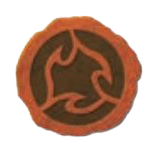
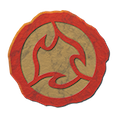
* Moved ImageCache off of SharedCtx onto ImageSpec global. * All images are now cached for 1 paint, then cleared IF memory usage is too high.

diff --git a/SpiritIsland.Utilities/Style/ImageSpec.cs b/SpiritIsland.Utilities/Style/ImageSpec.cs
@@ -1,28 +1,141 @@
 namespace SpiritIsland;
 
-public abstract class ImageSpec {
-	static public implicit operator ImageSpec(Img img) => new ImgImage(img);
-	static public implicit operator ImageSpec(IconDescriptor icon) => new IconImage(icon);
-	static public implicit operator ImageSpec(Bitmap bitmap) => new BitmapImage(bitmap);
-	static public implicit operator ImageSpec(Func<ResourceMgr<Bitmap>> func) => new ResourceMgrImage(func);
-	static public implicit operator ImageSpec(Func<Bitmap> img) => new FuncImage(img); // !!! this seems dangerous since we don't know disposal histroy
+public abstract class ImageSpec( bool shouldDispose ) {
 
-	public abstract ResourceMgr<Bitmap> GetResourceMgr();
+	#region static Implicit converters
 
-	class ImgImage(Img img) : ImageSpec{
-		public override ResourceMgr<Bitmap> GetResourceMgr() => new ResourceMgr<Bitmap>( ResourceImages.Singleton.GetImg(img), true );
-	}
-	class FuncImage(Func<Bitmap> generator) : ImageSpec{
-		public override ResourceMgr<Bitmap> GetResourceMgr() => new ResourceMgr<Bitmap>( generator(), true );
-	}
-	class IconImage(IconDescriptor icon) : ImageSpec {
-		public override ResourceMgr<Bitmap> GetResourceMgr() => new ResourceMgr<Bitmap>( ResourceImages.Singleton.GetTrackSlot( icon ), true);
-	}
-	class BitmapImage(Bitmap bitmap) : ImageSpec {
-		public override ResourceMgr<Bitmap> GetResourceMgr() => new ResourceMgr<Bitmap>( bitmap, false);
-	}
-	class ResourceMgrImage( Func<ResourceMgr<Bitmap>> func ) : ImageSpec {
+	// borrowd
+	static public implicit operator ImageSpec( Bitmap bitmap ) => new BitmapImage( bitmap );
+	// owned
+	static public implicit operator ImageSpec( Img img ) => new ImgImage( ImageCache, img );
+	static public implicit operator ImageSpec(IconDescriptor icon) => new IconImage( ImageCache, icon );
+	static public implicit operator ImageSpec(PowerCard card) => new PowerCardImage( ImageCache, card );
+	static public ImageSpec From( IToken token ) => new TokenImgSource( ImageCache, token );
+	static public implicit operator ImageSpec( Func<Bitmap> img ) => new FuncImage( img ); // !!! this seems dangerous since we don't know disposal histroy
+	// mystery
+	// static public implicit operator ImageSpec(Func<ResourceMgr<Bitmap>> func) => new ResourceMgrImage(func);
+
+	#endregion static Implicit converters
+
+	public virtual ResourceMgr<Bitmap> GetResourceMgr() => new ResourceMgr<Bitmap>( GetBitmap(), _owned );
+	public abstract Bitmap GetBitmap();
+
+	protected bool _owned = shouldDispose;
+
+	// Borrowed - don't dispose, don't cache
+	class BitmapImage( Bitmap bitmap ) : ImageSpec( false ) { public override Bitmap GetBitmap() => bitmap; }
+	// Borrowed - (Cached from ResouceImages) - Dispose, may cache
+	class ImgImage( ResourceImageSource resImages, Img img ) : ImageSpec(resImages.CalleeShouldDisposeOfResource){ public override Bitmap GetBitmap() => resImages.GetImg(img ); }
+	class IconImage( ResourceImageSource resImages, IconDescriptor icon) : ImageSpec( resImages.CalleeShouldDisposeOfResource ) { public override Bitmap GetBitmap() => resImages.GetTrackSlot( icon ); }
+	class TokenImgSource( ResourceImageSource resImages, IToken token ) : ImageSpec( resImages.CalleeShouldDisposeOfResource ) { public override Bitmap GetBitmap() => resImages.GetTokenImage( token ); }
+	class PowerCardImage( ResourceImageSource resImages, PowerCard card ) : ImageSpec( resImages.CalleeShouldDisposeOfResource ) { public override Bitmap GetBitmap() => resImages.GetPowerCard( card ); }
+
+	// Ownded (generic) - Dispose, may cache
+	class FuncImage( Func<Bitmap> generator ) : ImageSpec( true ) { public override Bitmap GetBitmap() => generator(); }
+
+	//  Owned - What the heck is this?
+	class ResourceMgrImage( Func<ResourceMgr<Bitmap>> func ) : ImageSpec( true ) {
 		public override ResourceMgr<Bitmap> GetResourceMgr() => func();
+		public override Bitmap GetBitmap() => _dummy; static Bitmap _dummy = new Bitmap(1,1);
 	}
 
+	#region static Cache
+
+	static public readonly CachedImageSource ImageCache = new CachedImageSource( ResourceImages.Singleton );
+
+	#endregion static Cache
+
+}
+
+public class CachedImageSource( ResourceImageSource _nonCached ) : ResourceImageSource {
+	bool ResourceImageSource.CalleeShouldDisposeOfResource => false;
+
+	#region public GetImg versions
+
+	public Bitmap GetImg( Img img ) {
+		if(GetSaved( img, out Bitmap? bitmap )) return bitmap!;
+		DateTime start = DateTime.Now;
+		bitmap = _nonCached.GetImg( img );
+		TimeSpan loadTime = DateTime.Now - start;
+		Save( img, bitmap, loadTime );
+		return bitmap;
+	}
+
+	public Bitmap GetTokenImage( IToken token ) {
+		if(GetSaved( token, out Bitmap? bitmap )) return bitmap!;
+		DateTime start = DateTime.Now;
+		bitmap = _nonCached.GetTokenImage( token );
+		TimeSpan loadTime = DateTime.Now - start;
+		Save( token, bitmap, loadTime );
+		return bitmap;
+	}
+	public Bitmap GetTrackSlot( IconDescriptor icon ) {
+		if(GetSaved( icon, out Bitmap? bitmap )) return bitmap!;
+		DateTime start = DateTime.Now;
+		bitmap = _nonCached.GetTrackSlot( icon );
+		TimeSpan loadTime = DateTime.Now - start;
+		Save( icon, bitmap, loadTime );
+		return bitmap;
+	}
+
+	public Bitmap GetPowerCard( PowerCard card ) {
+		if(GetSaved( card, out Bitmap? bitmap )) return bitmap!;
+		DateTime start = DateTime.Now;
+		bitmap = _nonCached.GetPowerCard( card );
+		TimeSpan loadTime = DateTime.Now - start;
+		Save( card, bitmap, loadTime );
+		return bitmap;
+	}
+
+	#endregion public GetImg versions
+
+	#region private Save/Load
+
+	bool GetSaved( object key, out Bitmap? bitmap ) {
+		if(_cache.TryGetValue( key, out CacheInfo? info )) {
+			info.RequestCount++;
+			bitmap = info.Bitmap;
+			return true;
+		}
+		bitmap = null;
+		return false;
+	}
+
+	void Save( object key, Bitmap bitmap, TimeSpan loadTime ) {
+		var info = new CacheInfo( bitmap, loadTime );
+		_cache.Add( key, info );
+		TotalLoadTime += loadTime;
+		MemoryUsage += info.MemoryUsage;
+	}
+
+	#endregion private Save/Load
+
+	/// <summary> Not threadsafe, call only from UI thread that doesthe painting. </summary>
+	public void Clear() {
+		foreach(var info in _cache.Values.ToArray())
+			info.Bitmap.Dispose();
+		_cache.Clear();
+		MemoryUsage = 0;
+	}
+	/// <summary> Running total. Doesn't reset </summary>
+	public TimeSpan TotalLoadTime;
+	/// <summary> Current memory usage. Resets with call to Clear() </summary>
+	public int MemoryUsage;
+
+	Dictionary<object, CacheInfo> _cache = [];
+
+	public class CacheInfo {
+		public CacheInfo( Bitmap bitmap, TimeSpan loadTime ) {
+			Bitmap = bitmap;
+			MemoryUsage = bitmap.Width * bitmap.Height * 4;
+			LoadTime = loadTime;
+			RequestCount = 1;
+		}
+		public readonly Bitmap Bitmap;
+		public readonly int MemoryUsage;
+		public readonly TimeSpan LoadTime;
+		public TimeSpan Saved => LoadTime.Multiply( RequestCount - 1 );
+		public int RequestCount;
+		public override string ToString() => $"{Saved} - {RequestCount} / {MemoryUsage}";
+	}
 }

diff --git a/SpiritIsland.Utilities/ImageMgmt/ResourceImages.cs b/SpiritIsland.Utilities/ImageMgmt/ResourceImages.cs
@@ -14,9 +14,17 @@ public interface ImgSource {
 	Bitmap GetImg(Img img);
 }
 
+/// <summary> Used by ImageSpec to pull resources </summary>
+/// <remarks> Allows creating a Cache-version </remarks>
+public interface ResourceImageSource : ImgSource {
+	bool CalleeShouldDisposeOfResource { get; }
+	Bitmap GetTrackSlot( IconDescriptor icon );
+	Bitmap GetTokenImage( IToken token );
+	Bitmap GetPowerCard( PowerCard card );
+}
 
 public partial class ResourceImages 
-	: ImgSource
+	: ResourceImageSource
 	, PowerCardResources
 	, InvaderCardResources
 	, FearCardResources
@@ -33,6 +41,8 @@ public partial class ResourceImages
 		LoadFont( "leaguegothic-regular-webfont.ttf" );
 		LoadFont( "playsir-regular.otf" );
 	}
+
+	bool ResourceImageSource.CalleeShouldDisposeOfResource => true;
 
 	#region Fonts
 
@@ -233,7 +243,9 @@ public partial class ResourceImages
 
 	}
 
-	public async Task<Bitmap> GetPowerCard( PowerCard card ) {
+	public Bitmap GetPowerCard( PowerCard card ) => GetPowerCardAsync(card).Result; // !!!
+
+	async Task<Bitmap> GetPowerCardAsync( PowerCard card ) {
 		try {
 			ImageDiskCache _cache = new ImageDiskCache();
 			string key = $"PowerCard\\{card.Name}.png";
@@ -249,7 +261,8 @@ public partial class ResourceImages
 		}
 	}
 
-	public Image GetSpiritMarker( Spirit spirit, Img img ) {
+
+	public Bitmap GetSpiritMarker( Spirit spirit, Img img ) {
 		ImageDiskCache _cache = new ImageDiskCache();
 		string key = $"SpiritMarkers\\{spirit.Text}-{img}.png";
 		if(_cache.Contains( key )) return _cache.Get( key );
@@ -316,8 +329,10 @@ public partial class ResourceImages
 		return new TextureBrush( image );
 	}
 
-	public Image GetTokenImage( IToken token ) {
-		return token is HumanToken ht ? HumanTokenBuilder.Build( ht )
+	public Bitmap GetTokenImage( IToken token ) {
+
+		return token is SpiritPresenceToken presenceToken ? GetSpiritMarker( presenceToken.Self, Img.Token_Presence )
+			: token is HumanToken ht ? HumanTokenBuilder.Build( ht )
 			: token.GetType().Name == "ManyMindsBeast" ? GetManyMindsBeast( "many-minds-beast.png", token.Img, 60, 40 )
 			: token.GetType().Name == "MarkedBeast" ? GetManyMindsBeast( "marked-beast.png", token.Img, 240, 20 )
 			: GetImg( token.Img );

diff --git a/SpiritIsland.WinForms/Panels/Island/IslandPanel.cs b/SpiritIsland.WinForms/Panels/Island/IslandPanel.cs
@@ -200,7 +200,8 @@ class IslandPanel : IPanel {
 			int count = spaceState[token];
 			if(count == 0) continue;
 
-			Image img = _ctx._imgCache.AccessTokenImage( token );
+			using var imgMgr = ImageSpec.From(token).GetResourceMgr(); //  imgMgr = _ctx._imgCache.GetResource( token );
+			var img = imgMgr.Resource;
 
 			// calc rect
 			int iconHeight = iconWidth * img.Height / img.Width;
@@ -258,7 +259,7 @@ class IslandPanel : IPanel {
 			IToken imageToken;
 			if(token is HumanToken si && 0 < si.StrifeCount) {
 				imageToken = si.HavingStrife( 0 );
-				Image strife = _ctx._imgCache._strife;
+				using Image strife = ResourceImages.Singleton.GetImg( Img.Strife );
 				Rectangle strifeRect = new Rectangle( new Point( (int)x, (int)y ), strife.Size.FitWidth( (int)iconWidth ) );
 				graphics.DrawImage( strife, strifeRect );
 				if(si.StrifeCount > 1)
@@ -268,7 +269,8 @@ class IslandPanel : IPanel {
 			}
 
 			// record token location
-			Image img = _ctx._imgCache.AccessTokenImage( imageToken );
+			using var imgMgr = ImageSpec.From( imageToken ).GetResourceMgr();
+			var img = imgMgr.Resource;
 			Rectangle rect = new Rectangle( new Point( (int)x, (int)y ), img.Size.FitWidth( (int)iconWidth ) );
 
 			RecordSpaceTokenLocation( token.On( ss.Space ), rect );

diff --git a/SpiritIsland.WinForms/IslandControl.cs b/SpiritIsland.WinForms/IslandControl.cs
@@ -37,7 +37,6 @@ public partial class IslandControl : Control {
 	public void Init( GameState gameState, AdversaryConfig adversary ) {
 
 		// Dispose old spirit tokens
-		_ctx._imgCache.InitNewSpirit( gameState.Spirits.Single() );
 
 		// Setup New
 		_ctx.GameState = gameState;
@@ -110,7 +109,13 @@ public partial class IslandControl : Control {
 		if(options_Ack is not null)
 			_optionRects.Add( options_Ack, regionLayout.AckPopupRect );
 
+		// seems to run about 11 MB
+		if( 20*MB < ImageSpec.ImageCache.MemoryUsage)
+			ImageSpec.ImageCache.Clear();
+
+
 	}
+	const int MB = 1000000;
 
 	public void GameState_NewLogEntry( ILogEntry obj ) {
 		if(obj is Log.Phase)
@@ -471,5 +476,4 @@ public class SharedCtx( IslandControl control ) {
 
 	public AdversaryConfig _adversary;
 
-	public readonly SpiritImageMemoryCache _imgCache = new SpiritImageMemoryCache( ResourceImages.Singleton ); // because we need different images for different damaged invaders.
 }

diff --git a/SpiritIsland.WinForms/ArtworkInit.cs b/SpiritIsland.WinForms/ArtworkInit.cs
@@ -40,18 +40,19 @@ class ArtworkInit( Label label ) {
 
 		BuildFearCards( fearCards );
 		BuildBlightCards( blightCards );
-		await BuildPowerCards( majors );
-		await BuildPowerCards( minors );
-		await BuildPowerCards( uniques );
+		BuildPowerCards( majors );
+		BuildPowerCards( minors );
+		BuildPowerCards( uniques );
+		await Task.Delay(0); //
 
 		_initCurrent = _initTotal;
 	}
 
-	async Task BuildPowerCards( PowerCard[] powerCards ) {
+	async void BuildPowerCards( PowerCard[] powerCards ) {
 		foreach(PowerCard powerCard in powerCards) {
 			_initCurrent++;
 			try {
-				using Image img = await ResourceImages.Singleton.GetPowerCard( powerCard );
+				using Image img = ResourceImages.Singleton.GetPowerCard( powerCard );
 			}
 			catch(Exception ex) {
 				MessageBox.Show( ex.ToString() );

diff --git a/SpiritIsland.WinForms/Panels/ClickableContainer.cs b/SpiritIsland.WinForms/Panels/ClickableContainer.cs
@@ -95,13 +95,13 @@ class SlotRect : IPaintableRect, IPaintAbove, IAmEnablable, IClickableLocation {
 	readonly SharedCtx _ctx;
 	readonly IOption _revealOption;
 	readonly IOption _coverOption;
-	readonly Bitmap _tokenImg;
+	readonly ImageSpec _tokenImg;
 
 	public SlotRect(Track slot, IPresenceTrack track, ClickableContainer clickableContainer, SharedCtx ctx ){
 		_slot = slot;
 		_track = track;
 		_ctx = ctx;
-		_tokenImg = (Bitmap)ctx._imgCache.AccessTokenImage(ctx._spirit.Presence.Token);
+		_tokenImg = ImageSpec.From( ctx._spirit.Presence.Token );
 		_background = new PoolRect{ WidthRatio = .8f }
 			.Float(_presenceBounds,.1f,0,.8f,.6f)
 			.Float(new ImgRect( slot.Icon ), .1f, .3f, .8f, .7f );

diff --git a/SpiritIsland.WinForms/Panels/Card/CardDeckPanel.cs b/SpiritIsland.WinForms/Panels/Card/CardDeckPanel.cs
@@ -78,7 +78,7 @@ class CardDeckPanel : IPanel {
 
 		// Card
 		CardRectClass cardRect = new CardRectClass{ WidthRatio=5f/7f, Margin=.03f };
-		cardRect.Float(new ImgRect((Func<ResourceMgr<Bitmap>>)(() => _images.GetMgr( card ))),2,2,96,96);
+		cardRect.Float(new ImgRect( card ),2,2,96,96);
 
 		// Add: Impending Energy
 		if(_ctx._spirit is DancesUpEarthquakes due && due.Impending.Contains(card)) {
@@ -233,7 +233,6 @@ class CardDeckPanel : IPanel {
 	// Spirit Settings
 	readonly SpiritDeck _currentDeck;
 	readonly SharedCtx _ctx;
-	readonly CardImageManager _images = new CardImageManager();
 	readonly Color _bgColor;
 	readonly List<PowerCard> _selected = [];
 	readonly int _deckIndex;

diff --git a/SpiritIsland.WinForms/Panels/Card/OtherCardsPanel.cs b/SpiritIsland.WinForms/Panels/Card/OtherCardsPanel.cs
@@ -53,7 +53,8 @@ class OtherCardsPanel( SharedCtx ctx ) : IPanel {
 		}
 
 		// draw image
-		graphics.DrawImage( _images.GetImage( card ), cardRect );
+		using ( var mgr = ((ImageSpec)card).GetResourceMgr() )
+			graphics.DrawImage( mgr.Resource, cardRect );
 
 		if(isAnOption) {
 			// Draw Label
@@ -123,7 +124,7 @@ class OtherCardsPanel( SharedCtx ctx ) : IPanel {
 
 	// Spirit Settings
 	readonly SharedCtx _ctx = ctx;
-	readonly CardImageManager _images = new CardImageManager();
+//	readonly CardImageManager _images = new CardImageManager();
 	// readonly Action _onAppearanceChanged;
 }
 

diff --git a/SpiritIsland.WinForms/Panels/Spirit/PresenceTrackPainter.cs b/SpiritIsland.WinForms/Panels/Spirit/PresenceTrackPainter.cs
@@ -29,7 +29,7 @@ namespace SpiritIsland.WinForms {
 
 		static PoolRect TheRightStuff( ClickableContainer cc, SharedCtx ctx ){
 			var spirit = ctx._spirit;
-			ImageSpec presence = ctx._imgCache._presenceImg;
+			ImageSpec presence = ImageSpec.From( ctx._spirit.Presence.Token );
 
 			var pool = new PoolRect(){ WidthRatio = .8f }
 				.Float(CurrentEnergyRect(cc,spirit),.3f,0, .7f,.7f )

diff --git a/SpiritIsland.NatureIncarnate/Spirits/Hearth/HearthVigil.cs b/SpiritIsland.NatureIncarnate/Spirits/Hearth/HearthVigil.cs
@@ -41,7 +41,8 @@ public class HearthVigil : Spirit {
 				new GainEnergy( 3 )
 			)
 		)
-		, PowerCard.For(typeof(FavorsOfStoryAndSeason))
+		,PowerCard.For(typeof(RoilingBogAndSnaggingThorn))
+		,PowerCard.For(typeof(FavorsOfStoryAndSeason))
 		,PowerCard.For(typeof(SurroundedByTheDahan))
 		,PowerCard.For(typeof(CoordinatedRaid))
 		,PowerCard.For(typeof(CallToVigilance))
